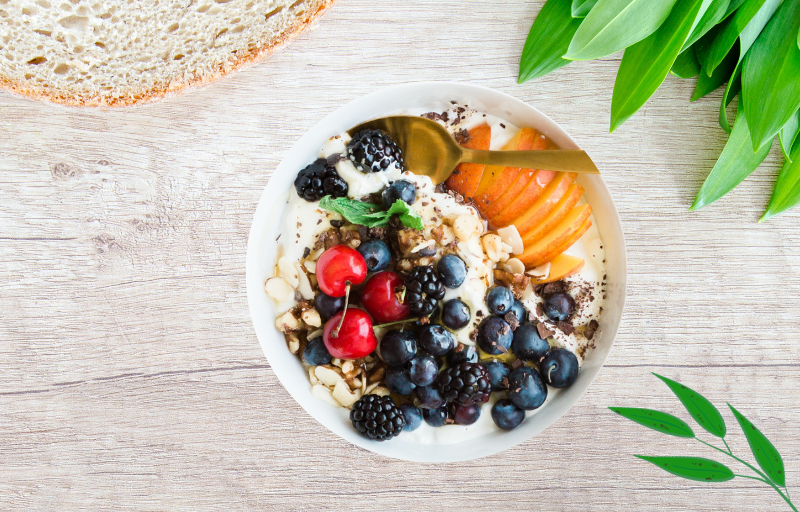
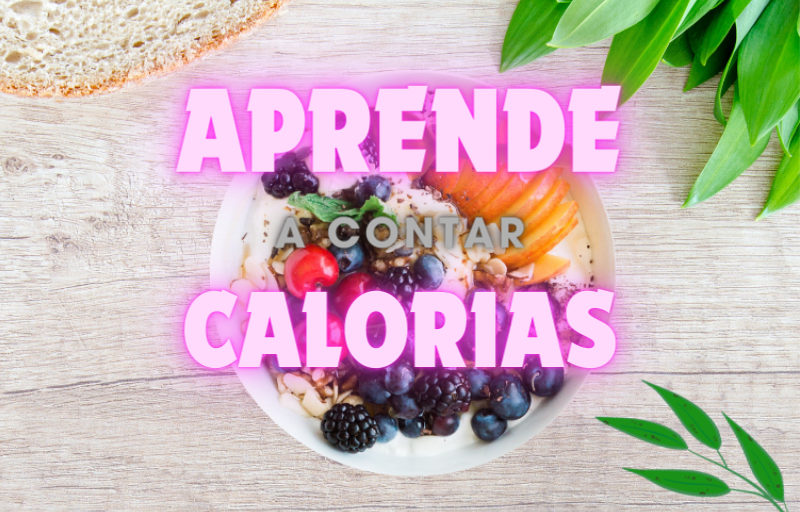
actualizacion
cambio de imagenes,
se agrego card con redes

diff --git a/index.html b/index.html
@@ -24,16 +24,16 @@
                 <ul id="header" class="navbar-nav  ms-auto mx-auto mt-3">
 
                   <li class="nav-item">
-                    <a href="#calculadora" type="button" class="btn btn-success" >Calc Calorias</a>
+                    <a href="#calculadora" type="button" class="btn btn-success">Calc Calorias</a>
                   </li>
                   <li class="nav-item">
-                    <button type="button" class="btn btn-success" onclick="redirectToSection()">Podcast</button>
+                    <a href="#botPod" type="button" class="btn btn-success">Podcast</a>
                   </li>
                   <li class="nav-item">
                     <button type="button" class="btn btn-success" onclick="redirectToSection()">Recetas</button>
                   </li>
                   <li class="nav-item">
-                    <button type="button" class="btn btn-success" onclick="redirectToSection()">Contacto</button>
+                    <button type="button" class="btn btn-success" onclick="redirectToSection()">Redes</button>
                   </li>
                 </ul>
               </div>
@@ -57,33 +57,29 @@
               <button type="button" data-bs-target="#carouselExampleCaptions" data-bs-slide-to="2" aria-label="Slide 3"></button>
               <button type="button" data-bs-target="#carouselExampleCaptions" data-bs-slide-to="3" aria-label="Slide 4"></button>
             </div>
-            <div class="carousel-inner ">
+            <div class="carousel-inner mb-5">
               <div class="carousel-item active ">
                 <img src="imagenes/FC1.png" class="d-block w-100" alt="...">
                 <div class="carousel-caption  d-none d-md-block">
-                  
-                  <p>Some representative placeholder content for the first slide.</p>
+              
                 </div>
               </div>
               <div class="carousel-item">
                 <img src="imagenes/FC2.png" class="d-block w-100" alt="...">
                 <div class="carousel-caption d-none d-md-block">
                
-                  <p>Some representative placeholder content for the second slide.</p>
                 </div>
               </div>
               <div class="carousel-item">
                 <img src="imagenes/FC3.png" class="d-block w-100" alt="...">
                 <div class="carousel-caption d-none d-md-block">
                
-                  <p>Some representative placeholder content for the third slide.</p>
                 </div>
               </div>
               <div class="carousel-item">
                 <img src="imagenes/FC4.png" class="d-block w-100" alt="...">
                 <div class="carousel-caption d-none d-md-block">
          
-                  <p>Some representative placeholder content for the third slide.</p>
                 </div>
               </div>
             </div>
@@ -105,7 +101,7 @@
       
         <div class="row">
             <div class="col-xs-6 col-sm-6 col-md-6 col-lg-6">
-                <div class="card">
+                <div class="card mb-5">
                     <img id="pregunta" src="imagenes/FT3.png"  class="card-img-top" alt="...">
                     <div class="card-body">
                         <h5 class="card-title"></h5>
@@ -115,7 +111,7 @@
                 </div>
             </div>
             <div class="col-xs-6 col-sm-6 col-md-6 col-lg-6">
-                <div class="card">
+                <div class="card mb-5">
                     <img id="calculadora" src="imagenes/FT4.png" class="card-img-top" alt="...">
                     <div class="card-body">
                         <h5 class="card-title"></h5>
@@ -137,12 +133,12 @@
       <div class="row">
         <div class="col">
 
-          <div class="card mb-3" style="max-width: 800px;">
+          <div class="card mb-5" style="max-width: 800px;">
             <div class="row g-0">
-              <div class="col-md-4">
+              <div class=" col-sm-4 col-md-4">
                 <img src="imagenes/Portada de Podcast Coach Moderno Azul.png" class="img-fluid rounded-start" alt="...">
               </div>
-              <div class="col-md-8">
+              <div class=" col-sm-8 col-md-8">
                 <div class="card-body">
                   <h5 class="card-title">Podcast</h5>
                   <p class="card-text">This is a wider card with supporting text below as a natural lead-in to additional content. This content is a little bit longer.</p>
@@ -152,6 +148,28 @@
                 <a href="#" class="btn btn-success">Go Spotifaild</a>
                 <a href="#" class="btn btn-success">Go Podimo</a>
                 <a href="https://www.spreaker.com/show/tu-nutri-guru" class="btn btn-success">Go Spreakerd</a>
+              </div>
+              </div>
+            </div>
+          </div>
+
+          <div class="card mb-3" style="max-width: 800px;">
+            <div class="row g-0">
+              
+              <div class=" col-sm-4 col-md-4">
+                <img id="imagenRedes" src="imagenes/redes.png" class="img-fluid rounded-start" alt="...">
+              </div>
+
+              <div class=" col-sm-8 col-md-8">
+                <div class="card-body">
+                  <h5 class="card-title">Seguime en mis Redes</h5>
+                  <p class="card-text">This is a wider card with supporting text below as a natural lead-in to additional content. This content is a little bit longer.</p>
+                  <p class="card-text"><small class="text-body-secondary">Last updated 3 mins ago</small></p>
+                </div>
+
+                <div id="botDePod">
+                <a href="https://www.instagram.com/nutriguru_flora" target="_blank" class="btn btn-success">Go Instagram</a>
+                <a href="#" class="btn btn-success">Go TiKTok</a>
               </div>
               </div>
             </div>

diff --git a/estilos.css b/estilos.css
@@ -25,6 +25,10 @@ footer{
   margin-top: 200px;
 }
 
+img-fluid{
+  height: 0;
+}
+
 #footer{
   
   position: fixed;
